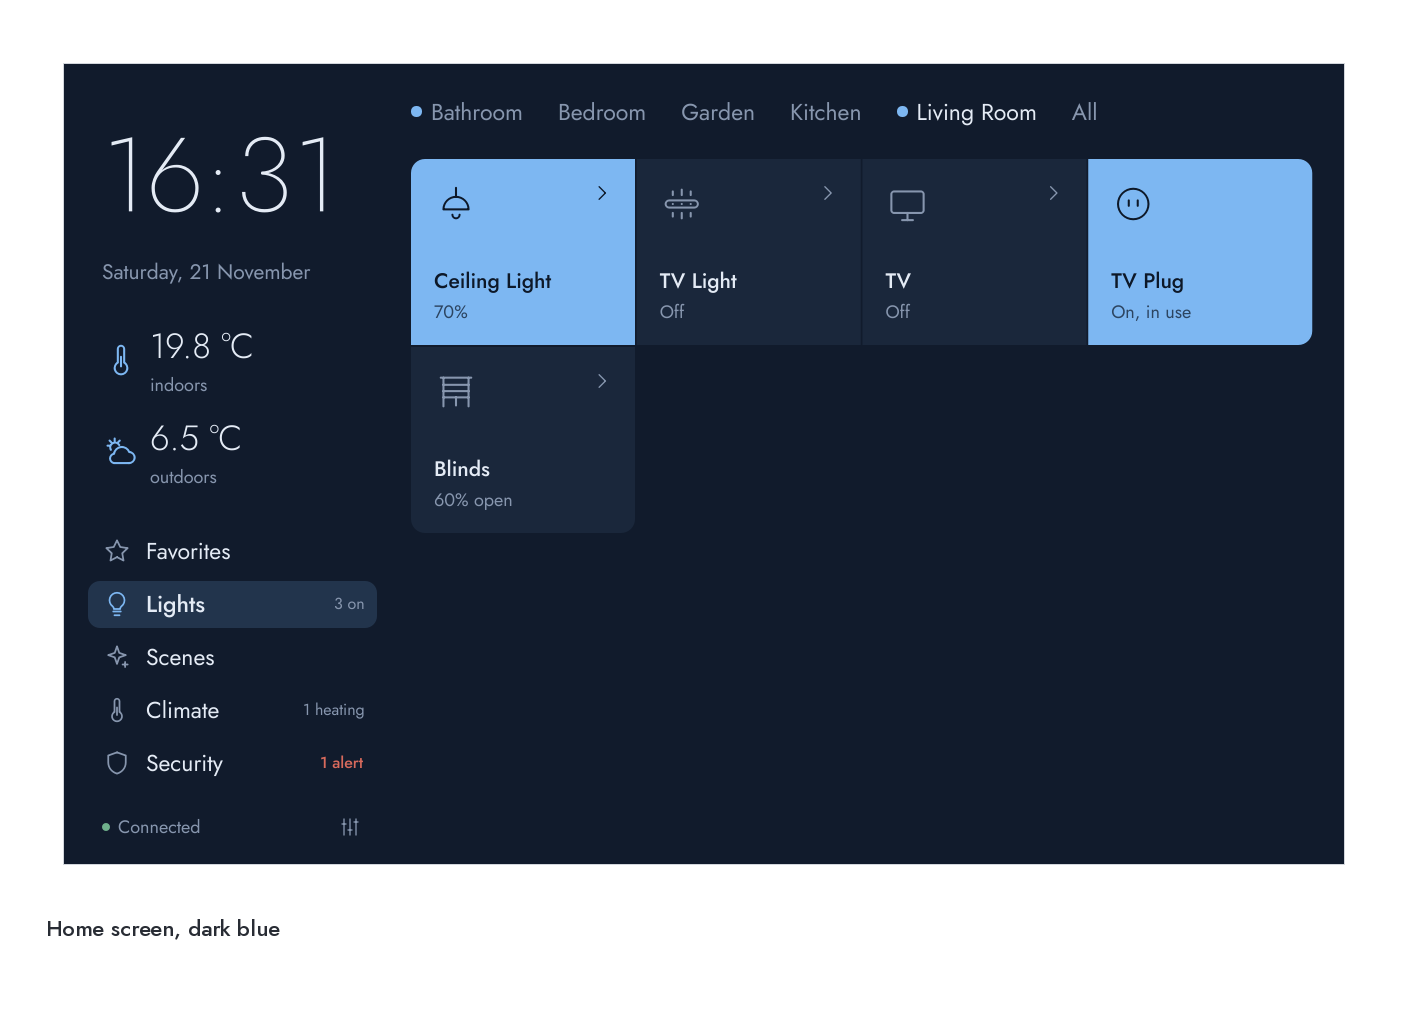
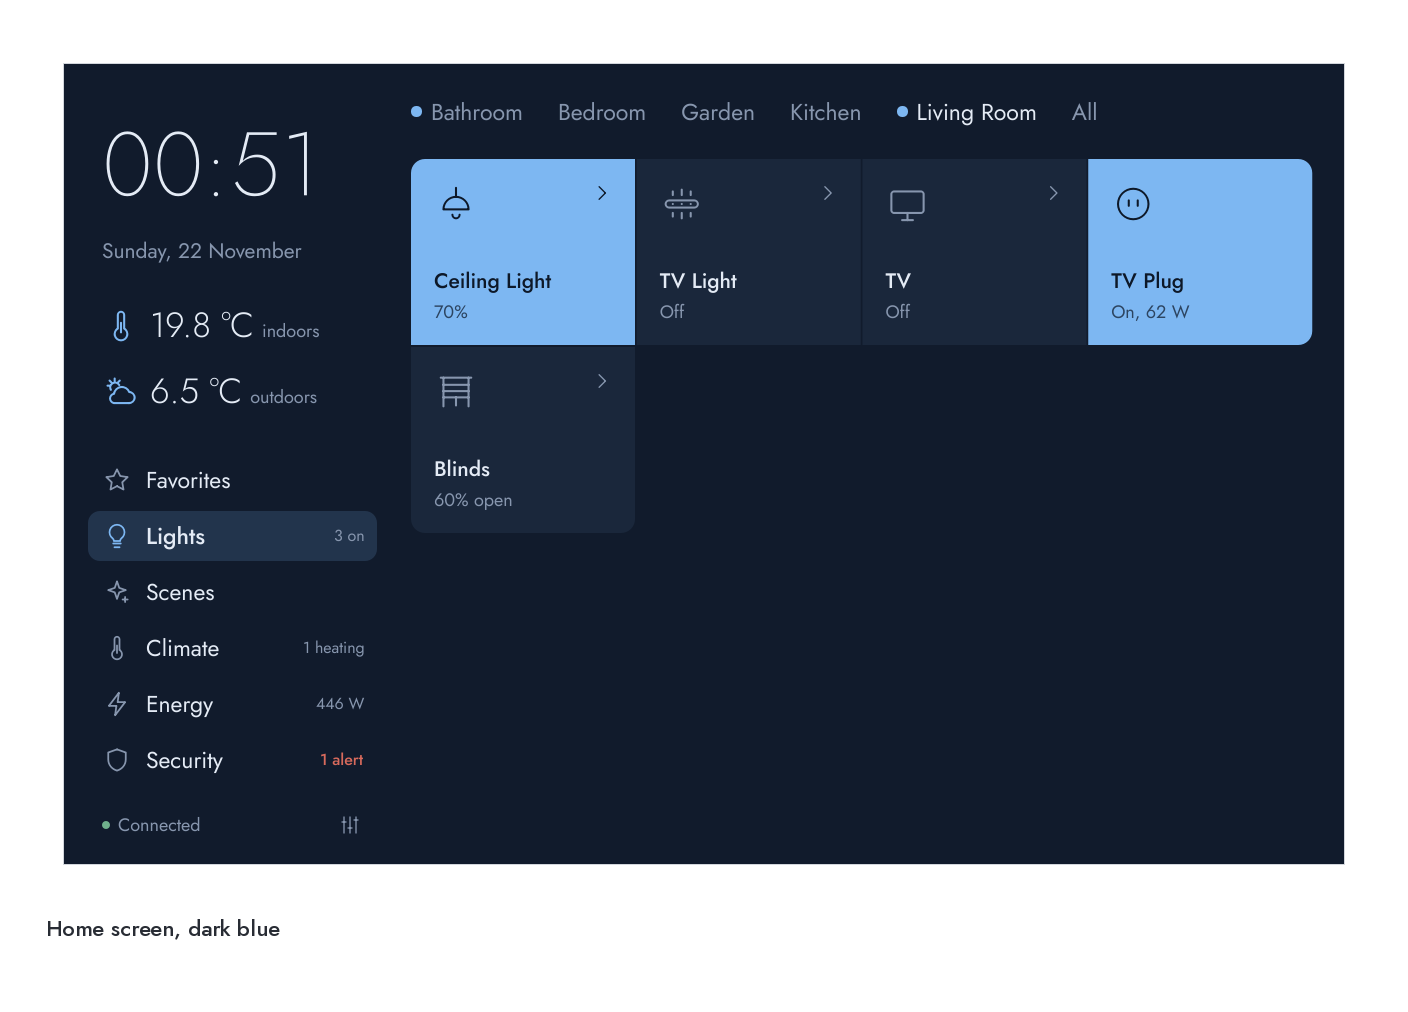
Energy view: devices that measure their power
- New menu entry "Energy" (lightning icon) with the total power now; it lists
  every device that reports its power (Eve plugs and the like), whatever menu
  area it has otherwise, with room tabs like the other entries. Left out of the
  menu while no device measures its power (and the view falls back to Lights).
- Sidebar: smaller clock, temperatures on one line each, so six entries fit
  down to 800 × 480.
- Demo: the TV plug measures its power too.
- Docs section, screenshots, translations, test.

Claude-Session: https://claude.ai/code/session_01WHPo8jtQJGMwjgBVHobh9P

diff --git a/app/qml/SideBar.qml b/app/qml/SideBar.qml
@@ -30,7 +30,7 @@ ColumnLayout {
         objectName: "clock"
         text: Qt.formatTime(root.now, "hh:mm")
         color: Theme.ink
-        font.pixelSize: root.compact ? 60 : Theme.s(84)
+        font.pixelSize: root.compact ? 52 : Theme.s(72)
         font.weight: Font.ExtraLight
         lineHeight: 0.95
     }
@@ -65,14 +65,18 @@ ColumnLayout {
                     name: parent.modelData.icon
                     color: Theme.gold
                 }
-                Column {
+                // value and label on one line: room for the menu below
+                Row {
+                    spacing: 8
                     Text {
+                        id: tempValue
                         text: qsTr("%1 °C").arg(parent.parent.modelData.temp)
                         color: Theme.ink
                         font.pixelSize: root.compact ? 22 : Theme.s(28)
                         font.weight: Font.Light
                     }
                     Text {
+                        anchors.baseline: tempValue.baseline
                         text: parent.parent.modelData.label
                         color: Theme.muted
                         font.pixelSize: Theme.s(14)

diff --git a/app/qml/CategoryMenu.qml b/app/qml/CategoryMenu.qml
@@ -8,15 +8,15 @@ ColumnLayout {
 
     property bool compact: false
     property real maxEntryHeight: Infinity      // set by the sidebar: the whole menu must fit
-    readonly property int count: Categories.keys.length
+    readonly property int count: Categories.shown(panel.hasEnergy).length
     readonly property var labels: ({ favorites: qsTr("Favorites"), light: qsTr("Lights"), scenes: qsTr("Scenes"),
-                                     climate: qsTr("Climate"), security: qsTr("Security") })
+                                     climate: qsTr("Climate"), energy: qsTr("Energy"), security: qsTr("Security") })
 
     objectName: "categoryMenu"
     spacing: compact ? 0 : 6
 
     Repeater {
-        model: Categories.keys
+        model: Categories.shown(panel.hasEnergy)
         Rectangle {
             id: entry
             required property string modelData

diff --git a/app/qml/Categories.js b/app/qml/Categories.js
@@ -1,5 +1,10 @@
 .pragma library
 
 // Menu areas of the home screen (see app/qt/format.py CATEGORIES; "scenes": scenes of the panel)
-var keys = ["favorites", "light", "scenes", "climate", "security"];
-var icons = { favorites: "star", light: "light", scenes: "spark", climate: "thermostat", security: "shield" };
+var keys = ["favorites", "light", "scenes", "climate", "energy", "security"];
+var icons = { favorites: "star", light: "light", scenes: "spark", climate: "thermostat", energy: "bolt", security: "shield" };
+
+// "energy" only while a device measures its power
+function shown(hasEnergy) {
+    return keys.filter(k => k !== "energy" || hasEnergy);
+}

diff --git a/app/qml/CategoryBar.qml b/app/qml/CategoryBar.qml
@@ -6,13 +6,13 @@ Row {
     id: root
 
     readonly property var labels: ({ favorites: qsTr("Favorites"), light: qsTr("Lights"), scenes: qsTr("Scenes"),
-                                     climate: qsTr("Climate"), security: qsTr("Security") })
+                                     climate: qsTr("Climate"), energy: qsTr("Energy"), security: qsTr("Security") })
 
     objectName: "categoryMenu"
     spacing: 8
 
     Repeater {
-        model: Categories.keys
+        model: Categories.shown(panel.hasEnergy)
         Rectangle {
             id: button
             required property string modelData

diff --git a/app/qml/TileGrid.qml b/app/qml/TileGrid.qml
@@ -55,6 +55,7 @@ GridView {
             : panel.category === "favorites" ? qsTr("No favorites yet. Mark devices as favorite in Settings → Rooms and devices.")
             : panel.category === "light" ? qsTr("No lights, switches or blinds here.")
             : panel.category === "climate" ? qsTr("No heating or climate sensors here.")
+            : panel.category === "energy" ? qsTr("No devices that measure their power here.")
             : qsTr("No security sensors here.")
         color: Theme.muted
         font.pixelSize: Theme.s(18)

diff --git a/app/qml/Icons.js b/app/qml/Icons.js
@@ -106,6 +106,7 @@ var paths = {
     down: "M6 9.5l6 6 6-6",
     pause: "M9.5 6.5v11M14.5 6.5v11",
     drop: "M12 3.5c-3 4-5.5 7-5.5 10a5.5 5.5 0 0 0 11 0c0-3-2.5-6-5.5-10z",
+    bolt: "M13.5 3L5.5 13.5h6l-1 7.5 8-10.5h-6z",
     gauge: "M4.5 16.5a7.5 7.5 0 1 1 15 0M12 16.5l3.5-4.5M10.5 16.5a1.5 1.5 0 1 0 3 0a1.5 1.5 0 1 0-3 0",
     wifi: "M2.5 9.5a13.5 13.5 0 0 1 19 0M5.5 13a9 9 0 0 1 13 0M8.5 16.5a4.8 4.8 0 0 1 7 0M11.4 19.5a.6.6 0 1 0 1.2 0a.6.6 0 1 0-1.2 0"
 };

diff --git a/app/qt/controller.py b/app/qt/controller.py
@@ -36,7 +36,7 @@ from ..models import AREAS, KIND_ICONS, KIND_KEYS, QUIET_KINDS, guess_lamp
 from ..wifi import Wifi, qr_image
 from . import format as fmt
 from .format import (air_warning, alert_level, battery_low, battery_text, category, fmt_temp, has_detail,
-                     short_name, state_text)
+                     has_power, in_area, power_text, short_name, state_text)
 
 log = logging.getLogger(__name__)
 ALL_ROOMS = ""
@@ -144,7 +144,7 @@ class DeviceModel(QAbstractListModel):
     # --- maintenance ---
     def rooms(self, cat: str | None = None) -> list[str]:
         """Rooms with devices (of a menu area), in the order set in the settings."""
-        return self.layout.sort({d["room"] for d in self.shown() if not cat or category(d) == cat})
+        return self.layout.sort({d["room"] for d in self.shown() if not cat or in_area(d, cat)})
 
     def device_rooms(self) -> dict[str, str]:
         return {d["id"]: d["room"] for d in self.all()}
@@ -205,7 +205,7 @@ class DeviceModel(QAbstractListModel):
             favs = [d for d in self.shown() + self.tiles() if d.get("favorite")]
             return [d["id"] for d in sorted(favs, key=lambda d: self.layout.favorite_rank(d["id"]))]
         devs = [d for d in self.shown() if self._room in (ALL_ROOMS, d["room"])
-                and self._category in ("", category(d))]
+                and (self._category == "" or in_area(d, self._category))]
         # alarms first, then open windows/doors; otherwise the order of rooms and devices – under
         # "All" by name instead
         alerts = {d["id"]: alert_level(d) for d in devs}
@@ -279,7 +279,7 @@ class DeviceModel(QAbstractListModel):
         d = self._place(d)
         self._all[d["id"]] = d
         structural = (old is None or any(old.get(k) != d.get(k) for k in ("room", "name", "order", "hidden", "grouped", "favorite"))
-                      or alert_level(old) != alert_level(d))
+                      or alert_level(old) != alert_level(d) or has_power(old) != has_power(d))
         if structural:
             self._relayout()
         elif d["id"] in self._rows:
@@ -1333,6 +1333,11 @@ class Controller(QObject):
         return rooms
 
     def _refresh_rooms(self) -> None:
+        if self._category == "energy" and not self.hasEnergy:     # the last measuring device is gone
+            self._category = "light"
+            self._room_auto = True
+            self._model.set_category("light", self._room)
+            self.categoryChanged.emit()
         rooms = self._tab_rooms()
         # after switching the menu entry (or at start) the first room is selected; "All" only
         # when chosen or when there are no rooms
@@ -1850,11 +1855,18 @@ class Controller(QObject):
         on = m.count(_is_on_light)
         heating = m.count(lambda d: d["type"] == "thermostat" and d["reachable"] and d.get("state", {}).get("heating"))
         alerts = self.securityCount
+        watts = sum(d["state"]["power"] for d in m.shown() if has_power(d))
         return {
+            "energy": power_text(watts) if self.hasEnergy else "",
             "light": tr("{n} on").format(n=on) if on else "",
             "climate": tr("{n} heating").format(n=heating) if heating else "",
             "security": (tr("1 alert") if alerts == 1 else tr("{n} alerts").format(n=alerts)) if alerts else "",
         }
+
+    @Property(bool, notify=summaryChanged)
+    def hasEnergy(self) -> bool:
+        """Menu entry "Energy": only while a device measures its power."""
+        return any(has_power(d) for d in self._model.shown())
 
     @Property("QVariantMap", notify=summaryChanged)
     def roomMarks(self) -> dict[str, str]:

diff --git a/tests/test_qt.py b/tests/test_qt.py
@@ -2167,3 +2167,33 @@ def test_keyboard_follows_the_language(qapp, tmp_path):
     win.close()
     engine.deleteLater()
     pump_until(lambda: False, timeout=0.3)
+
+
+def test_energy_view(qapp, tmp_path):
+    """Menu entry "Energy": every device that measures its power (whatever its own menu area),
+    total power in the menu; left out without such devices."""
+    ctl = make_controller(tmp_path)
+    ctl.start()
+    assert pump_until(lambda: len(ctl.devices.all()) == 29)
+    assert ctl.hasEnergy
+    ctl.selectCategory("energy")
+    ctl.selectRoom("")
+    names = sorted(ctl.devices.get(r)["name"] for r in ctl.devices._rows)
+    assert names == ["TV Plug", "Washing Machine"]
+    assert ctl.summary["energy"] == "446 W"                      # 384 W + 62.5 W
+    assert set(ctl.rooms) == {ctl.devices.get(r)["room"] for r in ctl.devices._rows}
+    tv = next(r for r in ctl.devices._rows if ctl.devices.get(r)["name"] == "TV Plug")
+    ctl.toggle(tv)                                               # off: 0 W, still listed
+    assert pump_until(lambda: ctl.summary["energy"] == "384 W")
+    assert tv in ctl.devices._rows
+    ctl.shutdown()
+
+    # no measuring devices: no menu entry
+    store = SettingsStore(tmp_path / "other.json")
+    store.update({"hap_enabled": False, "language": "en"})
+    cfg = AppConfig.model_validate({"demo": {"enabled": True}, "blacklist": ["Washing Machine", "TV Plug"]})
+    ctl = Controller(cfg, store)
+    ctl.start()
+    assert pump_until(lambda: len(ctl.devices.all()) == 26)      # the leak sensor goes too
+    assert not ctl.hasEnergy and ctl.summary["energy"] == ""
+    ctl.shutdown()

diff --git a/tools/doc_screenshots.py b/tools/doc_screenshots.py
@@ -241,7 +241,7 @@ def home_callouts(p: Panel, top_layout: bool) -> list[tuple]:
     if not top_layout:
         out.append((2, [p.rect("climate")], "Indoor and outdoor temperature"))
     out += [
-        (3, [p.rect("categoryMenu")], "Menu: favorites, lights, scenes, climate, security", *(["top"] if top_layout else ["left"])),
+        (3, [p.rect("categoryMenu")], "Menu: favorites, lights, scenes, climate, energy, security", *(["top"] if top_layout else ["left"])),
         (4, [status], "Connection status"),
         (5, [p.rect("settingsButton")], "Settings"),
         (6, [p.rect("roomTabs")], "Rooms; “All” comes last", *([] if top_layout else ["top"])),
@@ -272,6 +272,12 @@ def menu_views(p: Panel, out: Path, size: str, suffix: str = "") -> None:
         (2, [p.rect(f"tile:{p.device_id('Living Room Heating')}")], "Heating tile"),
         (3, [p.rect(f"tile:{p.device_id('Weather Station')}")], "Sensor tile"),
     ], f"Climate – {size}"), out, f"home-climate{suffix}")
+    p.ctl.selectCategory("energy")
+    p.ctl.selectRoom("")
+    save(annotate(p.grab(), [
+        (1, [p.rect("category:energy")], "Energy with the total power now", "left" if not suffix else "top"),
+        (2, [p.rect(f"tile:{p.device_id('Washing Machine')}")], "Device that measures its power"),
+    ], f"Energy – {size}"), out, f"home-energy{suffix}")
     p.ctl.selectCategory("security")
     p.ctl.selectRoom("")
     save(annotate(p.grab(), [

diff --git a/app/backends/demo.py b/app/backends/demo.py
@@ -24,7 +24,8 @@ _DEVICES = [
      [("On", False, True, {}), ("Brightness", 100, True, dict(min=0, max=100, step=1)),
       ("ColorTemperature", 300, True, dict(min=140, max=500, step=1))]),
     ("coffee", "Outlet", "Coffee Maker", [("On", False, True, {}), ("OutletInUse", False, False, {})]),
-    ("tv", "Outlet", "TV Plug", [("On", True, True, {}), ("OutletInUse", True, False, {})]),
+    ("tv", "Outlet", "TV Plug", [("On", True, True, {}), ("OutletInUse", True, False, {}),
+                                 ("EvePower", 62.5, False, {}), ("EveEnergy", 48.9, False, {})]),
     ("washer", "Outlet", "Washing Machine", [("On", True, True, {}), ("OutletInUse", True, False, {}),
                                              ("EvePower", 384.0, False, {}), ("EveEnergy", 213.4, False, {})]),
     ("heating-living", "Thermostat", "Living Room Heating",
@@ -196,6 +197,8 @@ class DemoBackend(Backend):
                 self._valve_started = None
         coffee = self._services["coffee"].chars
         coffee["OutletInUse"].value = bool(coffee["On"].value)
+        tv = self._services["tv"].chars             # a plug that measures: power only while on
+        tv["EvePower"].value = 62.5 if tv["On"].value else 0.0
 
     async def fetch(self) -> list[ServiceSnapshot]:
         self._simulate()

diff --git a/app/i18n_catalog.py b/app/i18n_catalog.py
@@ -447,6 +447,8 @@ _ROWS: list[tuple[str, str, str, str, str]] = [
     ('Soft white', 'Weiches Weiß', 'Blanc doux', 'Bianco morbido', 'Blanco suave'),
     ('Warm white', 'Warmweiß', 'Blanc chaud', 'Bianco caldo', 'Blanco cálido'),
     ('%1, %2 K', '%1, %2 K', '%1, %2 K', '%1, %2 K', '%1, %2 K'),
+    ('Energy', 'Energie', 'Énergie', 'Energia', 'Energía'),
+    ('No devices that measure their power here.', 'Hier gibt es keine Geräte, die ihren Verbrauch messen.', 'Aucun appareil qui mesure sa consommation ici.', 'Nessun dispositivo che misura il consumo qui.', 'No hay dispositivos que midan su consumo aquí.'),
     ("%1, lights on", "%1, Licht an", "%1, lumière allumée", "%1, luci accese", "%1, luces encendidas"),
     ("Language", "Sprache", "Langue", "Lingua", "Idioma"),
     ("System", "System", "Système", "Sistema", "Sistema"),

diff --git a/app/qt/format.py b/app/qt/format.py
@@ -40,6 +40,16 @@ def category(d: dict[str, Any]) -> str:
     return CATEGORY_OF_TYPE.get(d["type"], "light")
 
 
+def has_power(d: dict[str, Any]) -> bool:
+    """Measures its power (Eve plugs and the like): shown under "Energy"."""
+    return d.get("state", {}).get("power") is not None
+
+
+def in_area(d: dict[str, Any], area: str) -> bool:
+    """Shown under a menu entry: its menu area, or "energy" for every device that measures power."""
+    return has_power(d) if area == "energy" else category(d) == area
+
+
 def battery_low(d: dict[str, Any]) -> bool:
     """Battery almost empty: below 10 % or the device itself reports a low battery."""
     s = d.get("state", {})
